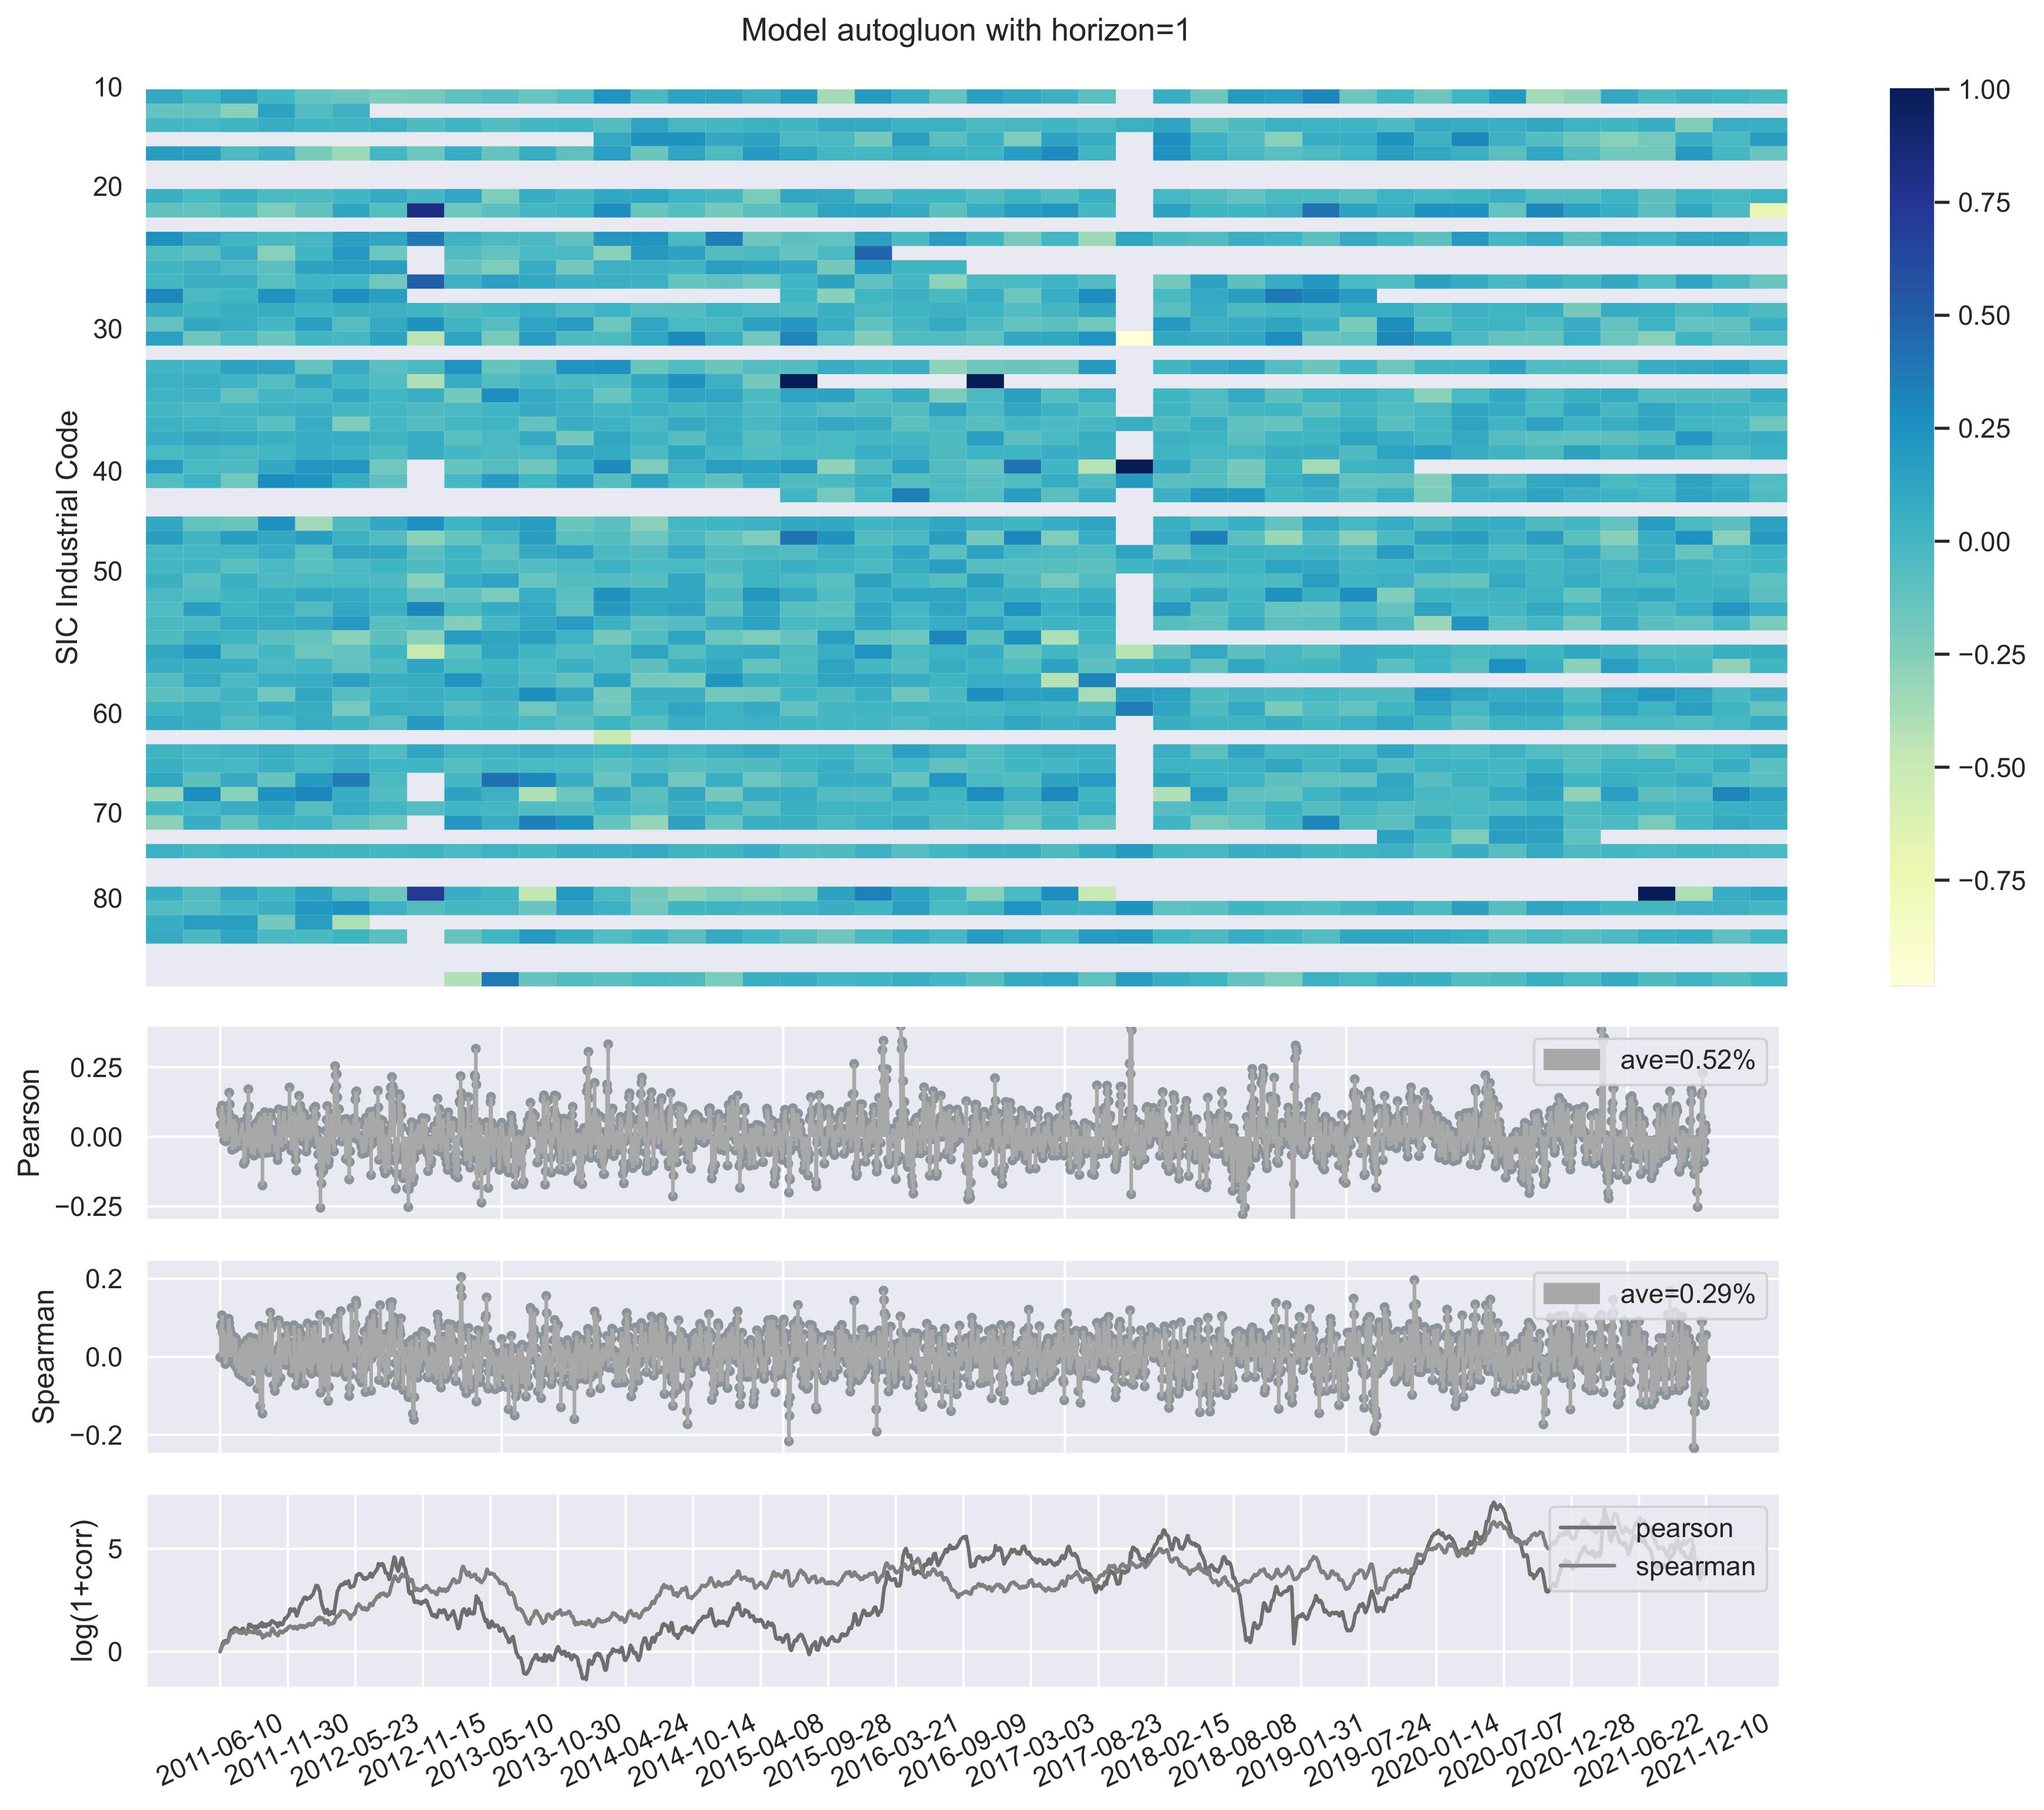
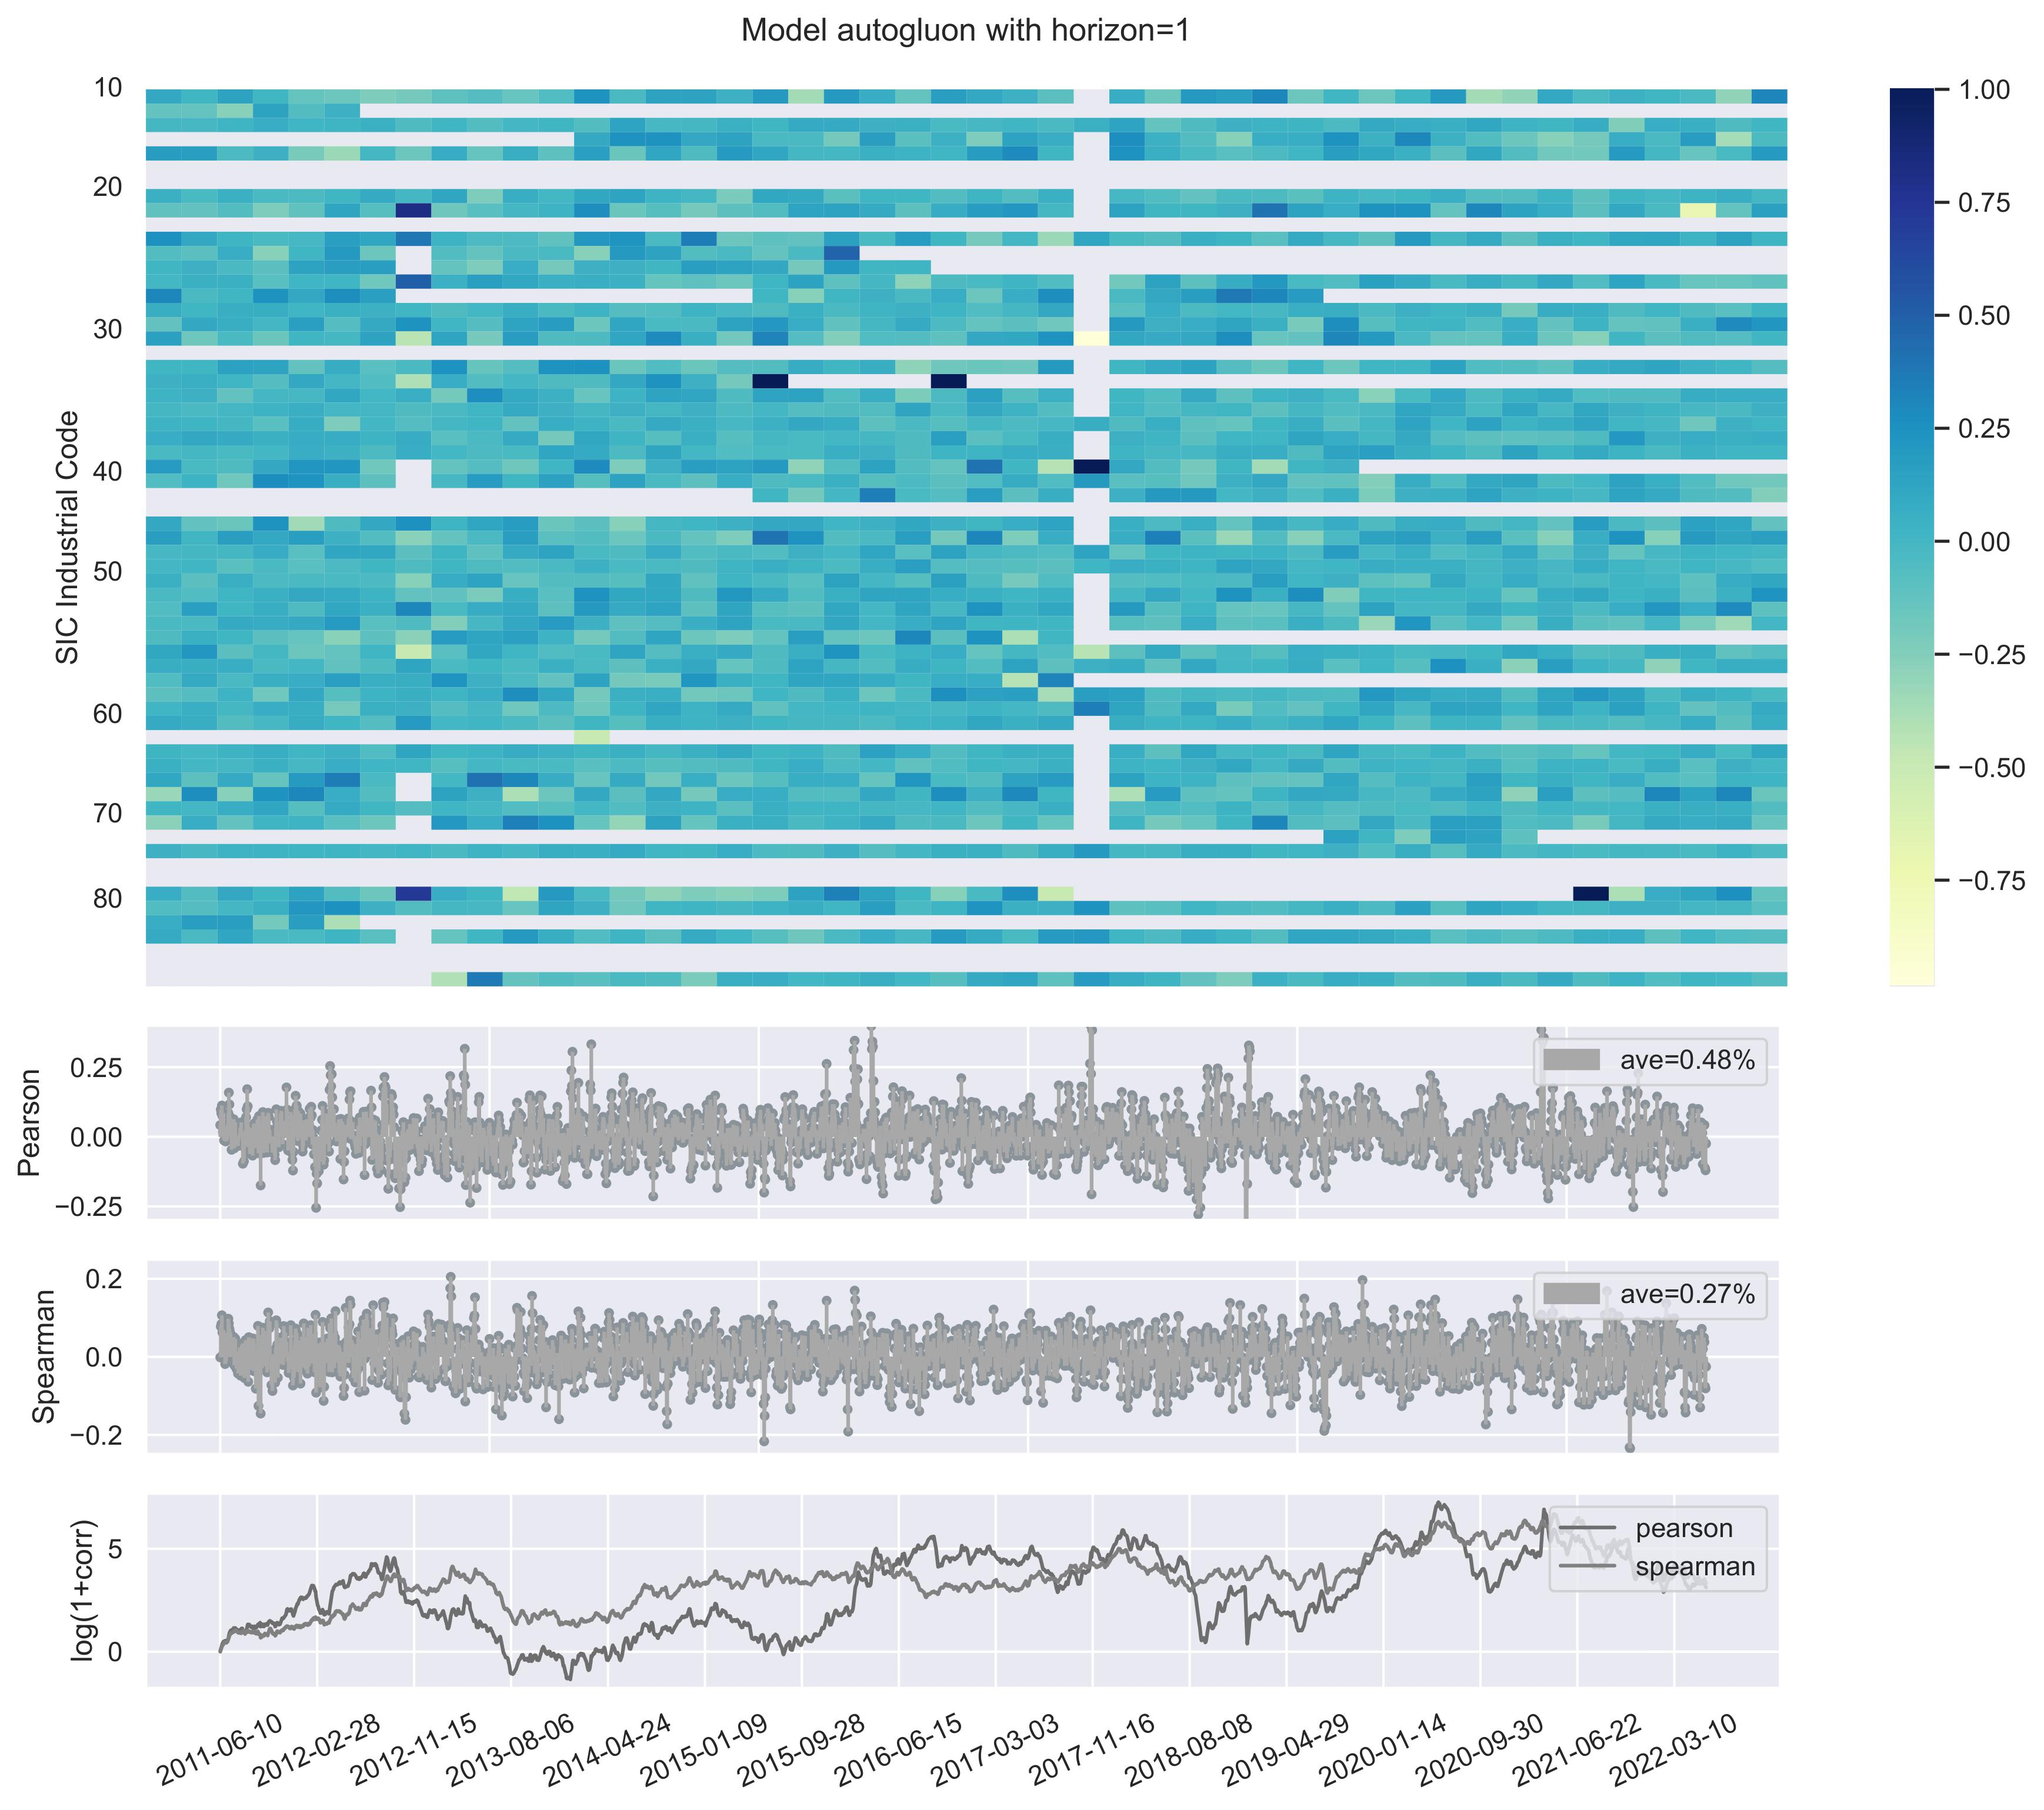
update

diff --git a/experiments/correlation.py b/experiments/correlation.py
@@ -79,10 +79,10 @@ def plot_correlation(model_name, horizon, corr_ind_df, corr_df):
     # define indices
     index = range(len(corr_df.index))
     test_size = window_dict["test_win"] - window_dict["valid_win"]
-    xticks = [idx for idx, _ in enumerate(corr_df.index) if idx % (test_size * 2) == 0]
-    xlabels = [_ for idx, _ in enumerate(corr_df.index) if idx % (test_size * 2) == 0]
-    xticks = xticks + [len(corr_df.index) - 1]
-    xlabels = xlabels + [corr_df.index[-1]]
+    xticks = [idx for idx, _ in enumerate(corr_df.index) if idx % (test_size * 3) == 0]
+    xlabels = [_ for idx, _ in enumerate(corr_df.index) if idx % (test_size * 3) == 0]
+    # xticks = xticks + [len(corr_df.index) - 1]
+    # xlabels = xlabels + [corr_df.index[-1]]
 
     # ax1: pearson correlation
     pearson_mean = round(corr_df["pearson"].mean() * 100, 2)
